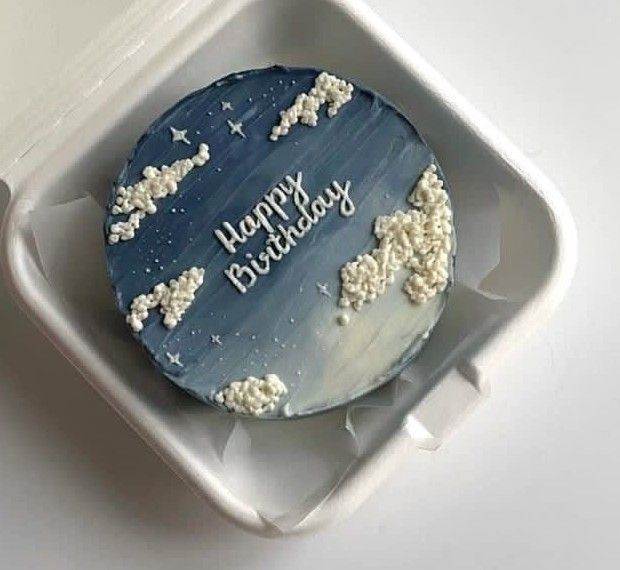
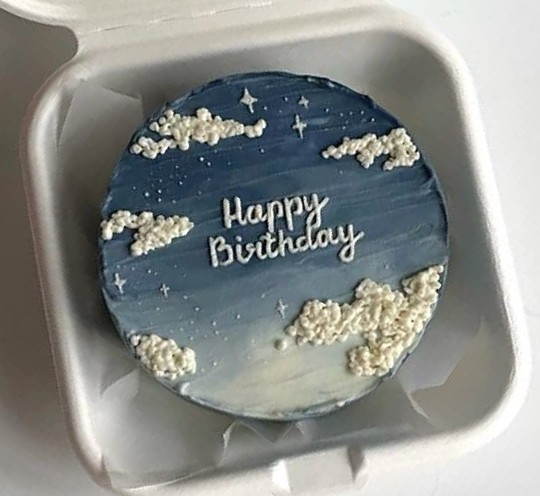
Straighten the cake photo and its card
Rotate the cake photo so the box and Happy Birthday writing sit level,
crop out the empty corners, and stop tilting the cake card.

Claude-Session: https://claude.ai/code/session_017yNYNWZm7NfZaaFUrckxdr

diff --git a/index.html b/index.html
@@ -81,7 +81,7 @@ button { font: inherit; color: inherit; }
 
 /* Cake card */
 .cake-photo { position: relative; display: block; border-radius: 4px; overflow: hidden; container-type: inline-size; cursor: pointer; }
-.cake-photo img { width: 100%; aspect-ratio: 620 / 570; max-height: 44cqh; object-fit: cover; }
+.cake-photo img { width: 100%; aspect-ratio: 540 / 496; max-height: 44cqh; object-fit: cover; }
 .cake-photo::after { content: ""; position: absolute; inset: 0; background: radial-gradient(circle at 46% 46%, rgba(255, 255, 255, .55), rgba(255, 255, 255, 0) 60%); opacity: 0; pointer-events: none; }
 .cake-photo.wish::after { animation: glow 1.1s ease-out; }
 @keyframes glow { 30% { opacity: 1; } 100% { opacity: 0; } }
@@ -175,7 +175,7 @@ button { font: inherit; color: inherit; }
         </div>
         <p class="cap small">keep the ball up for 15 touches</p>
       </article>
-      <article class="card" data-rot="2" id="card-cake">
+      <article class="card" data-rot="0" id="card-cake">
         <p class="card-title">make a wish ✨</p>
         <div class="cake-photo" id="cakePhoto">
           <img src="photos/cake.jpg" alt="A small blue birthday cake with white clouds and stars, Happy Birthday written on it">
